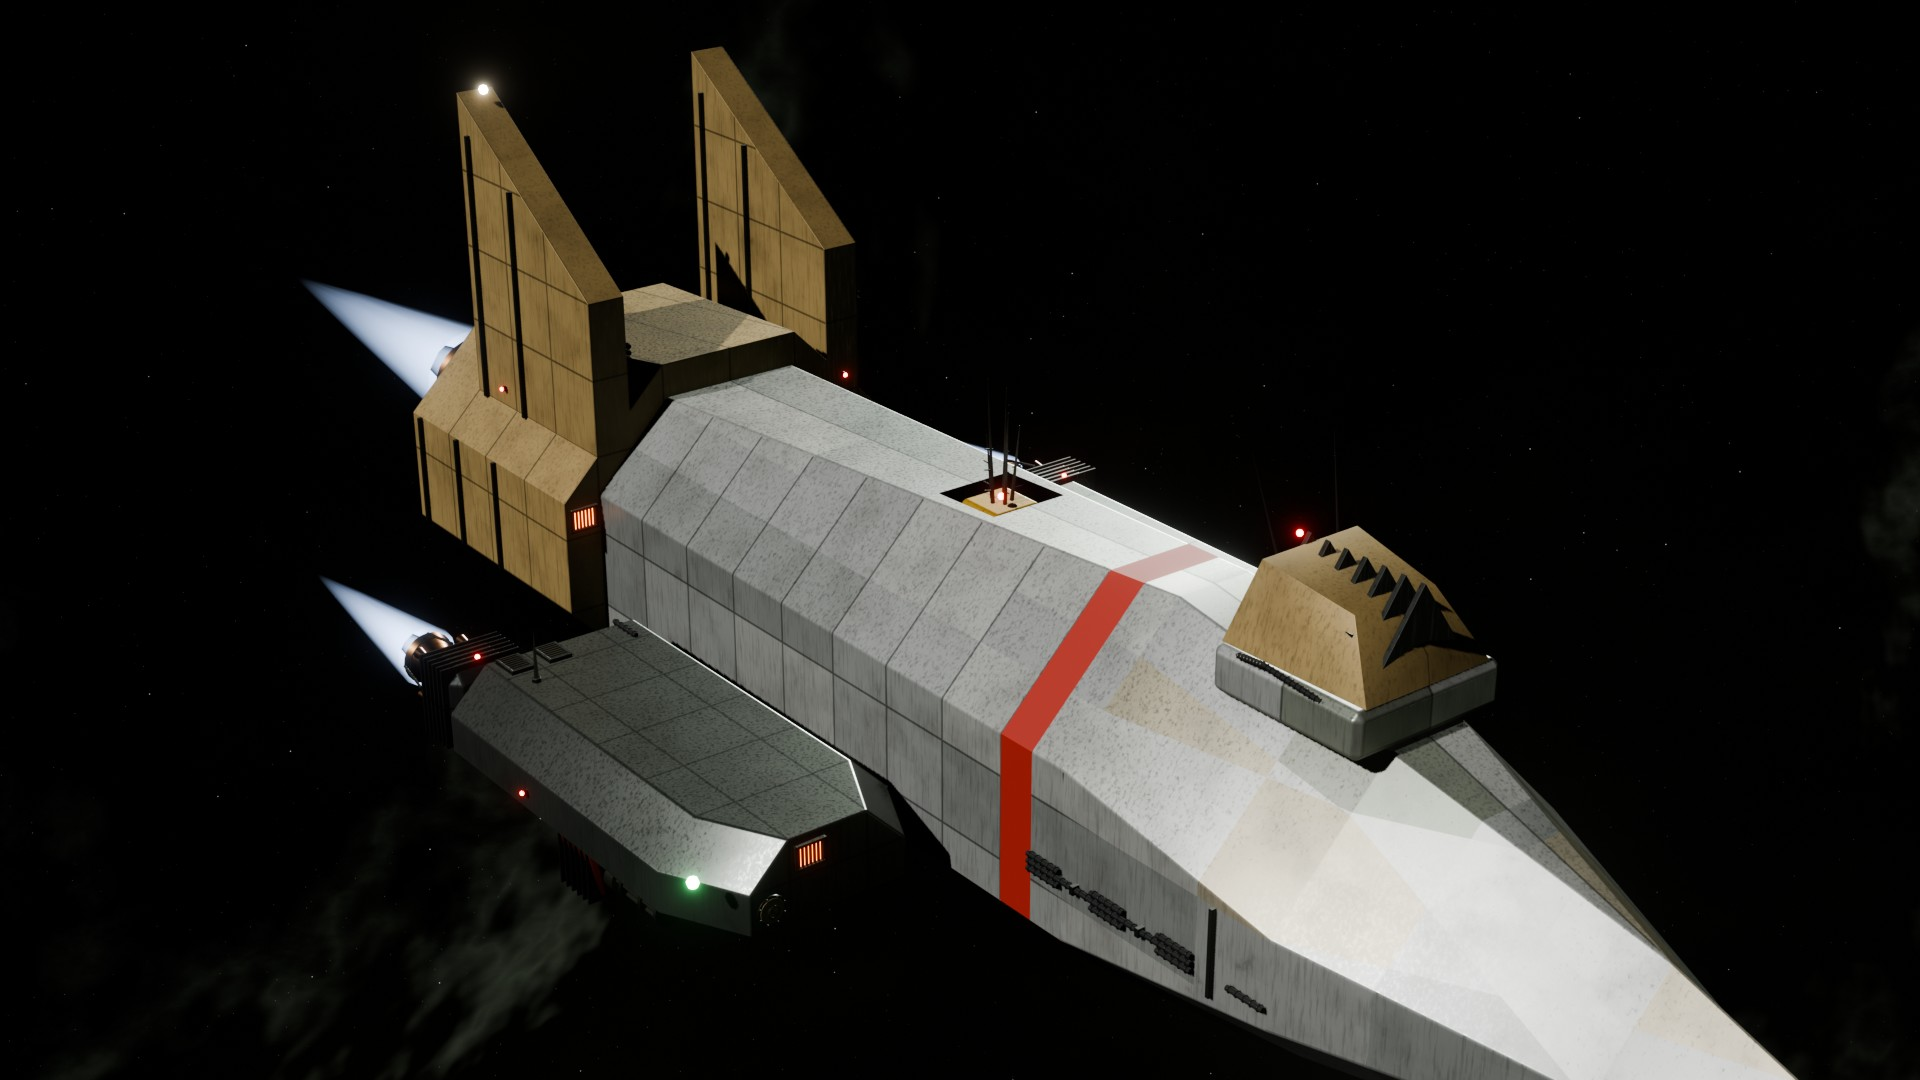
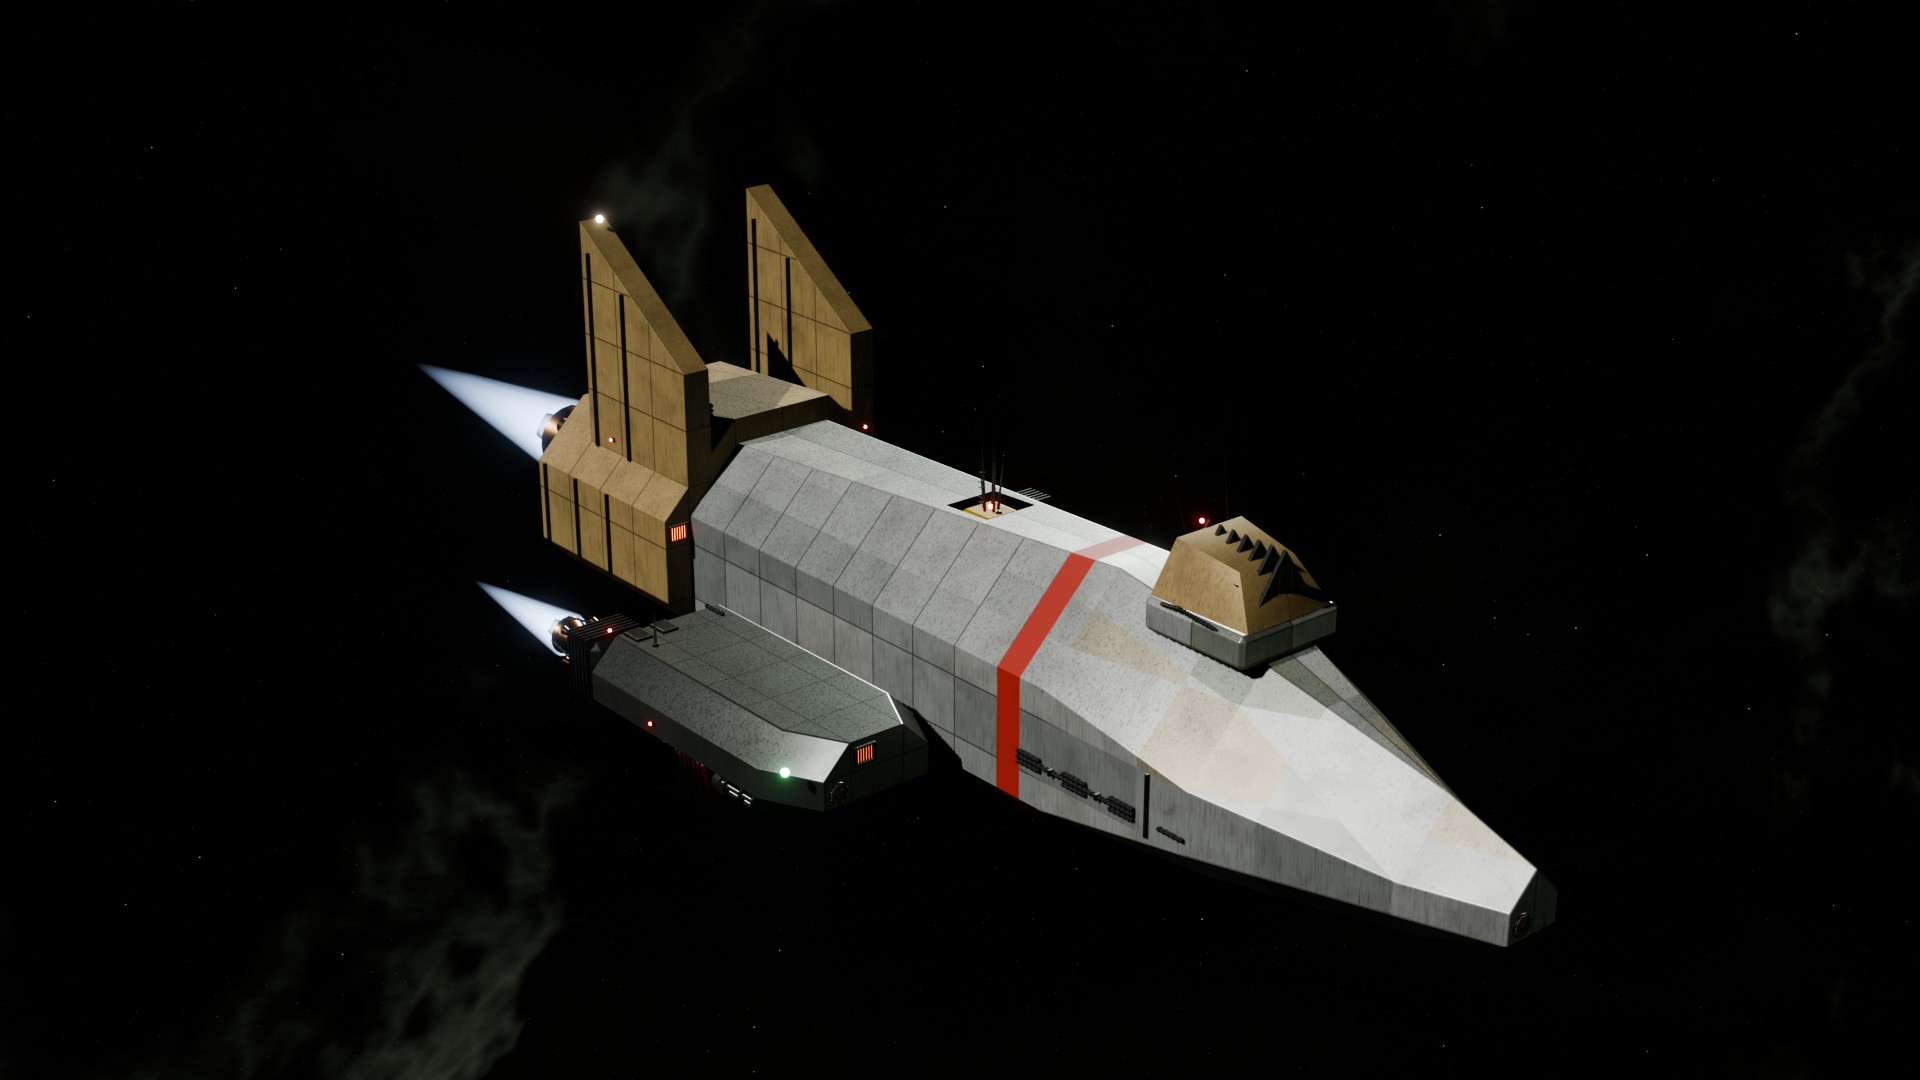
Slope study: WRAITH redesigned to suit options 1 and 2 (exact kit blocks only)

Changed region(s): [[0.1562, 0.0306, 0.9375, 1.0], [0.1875, 0.9472, 0.25, 1.0]]

diff --git a/docs/design/lookbook/lookbook.js b/docs/design/lookbook/lookbook.js
@@ -591,8 +591,8 @@ function slopesPage() {
     s.appendChild(g2);
     p.appendChild(s);
   }
-  s = section("WRAITH rebuilt with options 1 and 2", "same layout and sizes, tapers redrawn at each kit's angles, only the kit's blocks; both pass the build check");
-  const fw = shot(d, "wraith_compare.jpg", "Left to right: original, option 1 (slope + hip corner), option 2 (+ long slope 1×2). Option 2's nose steps where its long slopes meet the 45° chamfers");
+  s = section("WRAITH redesigned for options 1 and 2", "the same dropship, built the way a builder would with each kit; every sloped cell is exactly one of the kit's blocks, and both pass the build check");
+  const fw = shot(d, "wraith_compare.jpg", "Left to right: original, option 1 (45° chamfers and a short armoured ram, hip corners wherever two slopes meet), option 2 (the same hull, pods and hips, plus a long 1×2 glacis ram and fin tops). Front, side and rear");
   fw.querySelector("img").style.aspectRatio = "auto";
   s.appendChild(fw);
   p.appendChild(s);

diff --git a/ArtSource/LookDev/ld_slopes.py b/ArtSource/LookDev/ld_slopes.py
@@ -503,41 +503,62 @@ def kit_report(types, long_nose=False):
 
 
 def wraith_rebuilt(kit):
-    """The NOCTURNE WRAITH as a builder would rebuild it with a kit: same layout and sizes, tapers redrawn at the
-    kit's angles (45 degrees for k2; 1 in 2 where the original tapered gently for k3), then limited to its blocks."""
+    """The NOCTURNE WRAITH redesigned by a builder for one kit: the same dropship (hull, ram nose, gun pods on stub
+    wings, twin fins, engine block), drawn so every sloped cell is exactly one of the kit's blocks.
+    k2 (slope + hip corner): 45-degree chamfers, a 45-degree arrowhead ram with chamfered edges, hip corners wherever
+    two slopes meet. k3 (adds the long slope): the same 45-degree hull, pods and hips, plus a long 1-in-2 arrowhead
+    ram and 1-in-2 fin tops; long slopes only meet flat faces, so nothing steps."""
     from ld_ships import Ship
-    k = 2 if kit == "k3" else 1
+    long = kit == "k3"
     s = Ship("WRAITH", 21, "company")
-    # main hull: 45-degree chamfers along its length; the nose closes at the kit's angle
-    s.loft([(0, 4, 0, 8, 3, 1), (26, 4, 0, 8, 3, 1)])
-    nose = [((1, 0, 0), 4), ((-1, 0, 0), 4), ((0, 0, -1), 0), ((0, -1, 0), -26), ((0, 1, 0), 36),
-            ((1, 0, 1), 4 + 8 - 3), ((-1, 0, 1), 4 + 8 - 3), ((1, 0, -1), 4 - 1), ((-1, 0, -1), 4 - 1)]
-    if k == 1:
-        nose += [((1, 1, 0), 30), ((-1, 1, 0), 30), ((0, 1, 1), 34), ((0, 1, -1), 30)]
+    W, Z = 4, 8
+    # hull: an octagon with 45-degree chamfers, top 2 cells and bottom 1 cell
+    hull = [((1, 0, 0), W), ((-1, 0, 0), W), ((0, 0, 1), Z), ((0, 0, -1), 0),
+            ((1, 0, 1), W + Z - 2), ((-1, 0, 1), W + Z - 2), ((1, 0, -1), W - 1), ((-1, 0, -1), W - 1)]
+    s.convex(hull + [((0, 1, 0), 26), ((0, -1, 0), 0)], ((-W, 0, 0), (W, 26, Z)))
+    # shoulders: the hull narrows to the ram at 45 degrees in plan; hip corners close the chamfers
+    s.convex(hull + [((0, 1, 0), 28), ((0, -1, 0), -26), ((1, 1, 0), W + 26), ((-1, 1, 0), W + 26)], ((-W, 26, 0), (W, 28, Z)))
+    # the ram nose: 4 cells wide, an arrowhead in side view meeting on a cell corner
+    ram = [((1, 0, 0), 2), ((-1, 0, 0), 2), ((0, 0, -1), 0), ((0, -1, 0), -28)]
+    if long:
+        ram += [((0, 1, 2), 28 + 2 * Z), ((0, 1, -2), 36)]          # deck 1 in 2 down to y=44, chin 1 in 2: tip at y=40
+        s.convex(ram + [((0, 1, 0), 40)], ((-2, 28, 0), (2, 40, Z)))
     else:
-        nose += [((2, 1, 0), 34), ((-2, 1, 0), 34), ((0, 1, 2), 42), ((0, 1, -2), 30)]
-    s.convex(nose, ((-4, 26, 0), (4, 36, 8)))
+        ram += [((0, 1, 1), 28 + Z), ((0, 1, -1), 30), ((1, 0, 1), 2 + Z - 1), ((-1, 0, 1), 2 + Z - 1)]   # tip at y=33
+        s.convex(ram + [((0, 1, 0), 33)], ((-2, 28, 0), (2, 33, Z)))
     # the engine block at the stern
     s.loft([(-6, 5, 0, 8, 3, 2), (2, 5, 0, 8, 3, 2)], "hull2")
-    # gun pods on stub wings; their fronts close at the kit's angle
-    s.loft([(5, 3, 1, 3, 1, 0), (14, 3, 1, 3, 1, 0), (14 + k, 2, 1, 3, 1, 0)], "armor", cx=7, mirror=True)
-    # tail fins: one cell thick, their tops falling toward the bow at the kit's angle
+    # gun pods on stub wings: pointed fronts at 45 degrees, chamfered tops, hip corners where they meet
+    for sx in (1, -1):
+        a, b = (4, 10) if sx > 0 else (-10, -4)
+        pod = [((1, 0, 0), b), ((-1, 0, 0), -a), ((0, 0, 1), 3), ((0, 0, -1), -1), ((0, -1, 0), -5), ((0, 1, 0), 16),
+               ((1, 1, 0), b + 13), ((-1, 1, 0), -a + 13), ((1, 0, 1), b + 3 - 1), ((-1, 0, 1), -a + 3 - 1)]
+        s.convex(pod, ((a, 5, 1), (b, 16, 3)), "armor")
+        s.box(min(sx * 4, sx * 5), max(sx * 4, sx * 5), 8, 12, 1, 3, "armor")
+    # tail fins: one cell thick, their tops falling toward the bow
     for sx in (1, -1):
         x0, x1 = (3, 4) if sx > 0 else (-4, -3)
-        top = ((0, 1, 1), 10) if k == 1 else ((0, 1, 2), 24)
+        top = ((0, 1, 2), 24) if long else ((0, 1, 1), 10)
         s.convex([((1, 0, 0), x1), ((-1, 0, 0), -x0), ((0, 1, 0), 2), ((0, -1, 0), 4), ((0, 0, 1), 14), ((0, 0, -1), -6), top],
                  ((x0, -4, 6), (x1, 2, 14)), "hull2")
     s.paint(lambda x, y, z: z < 1.5, "armor")
     s.paint(lambda x, y, z: 18 <= y < 19, "accent")
-    s.mod("cockpit", -2, 22, 8)
-    s.mod("gatling", 8, 9, -1, rot=(0, 180, 0), mirror=True)
-    s.mod("autocannon", -1, 21, -2, rot=(0, 180, 0))
+    s.mod("cockpit", -2, 21, 8)
+    s.mod("gatling", 6, 9, -1, rot=(0, 180, 0), mirror=True)
+    s.mod("autocannon", -1, 24, -2, rot=(0, 180, 0))
     s.mod("thruster_l", -2, -12, 1)
     s.mod("thruster_s", 8, 2, 1, mirror=True)
     s.mod("sensor", -1, 12, 8)
     s.mod("core_1", 0, 14, 2)
     s.prune()
     O, oidx, opl = oriented(option_pieces(KITS_BY_KEY[kit][2]))
+    osum = O.sum(1)
+    off = 0
+    for store in (s.shapes, s.big_shapes):
+        for _, sh in store.items():
+            c = occ(sh[1]).astype(np.float32)
+            off += float(((c.sum() + osum - 2 * O @ c) / len(PTS)).min()) > 0.02
+    s.kit_off = off
     quantize(s, list(range(int(oidx.max()) + 1)), O, oidx, opl)
     return s
 
